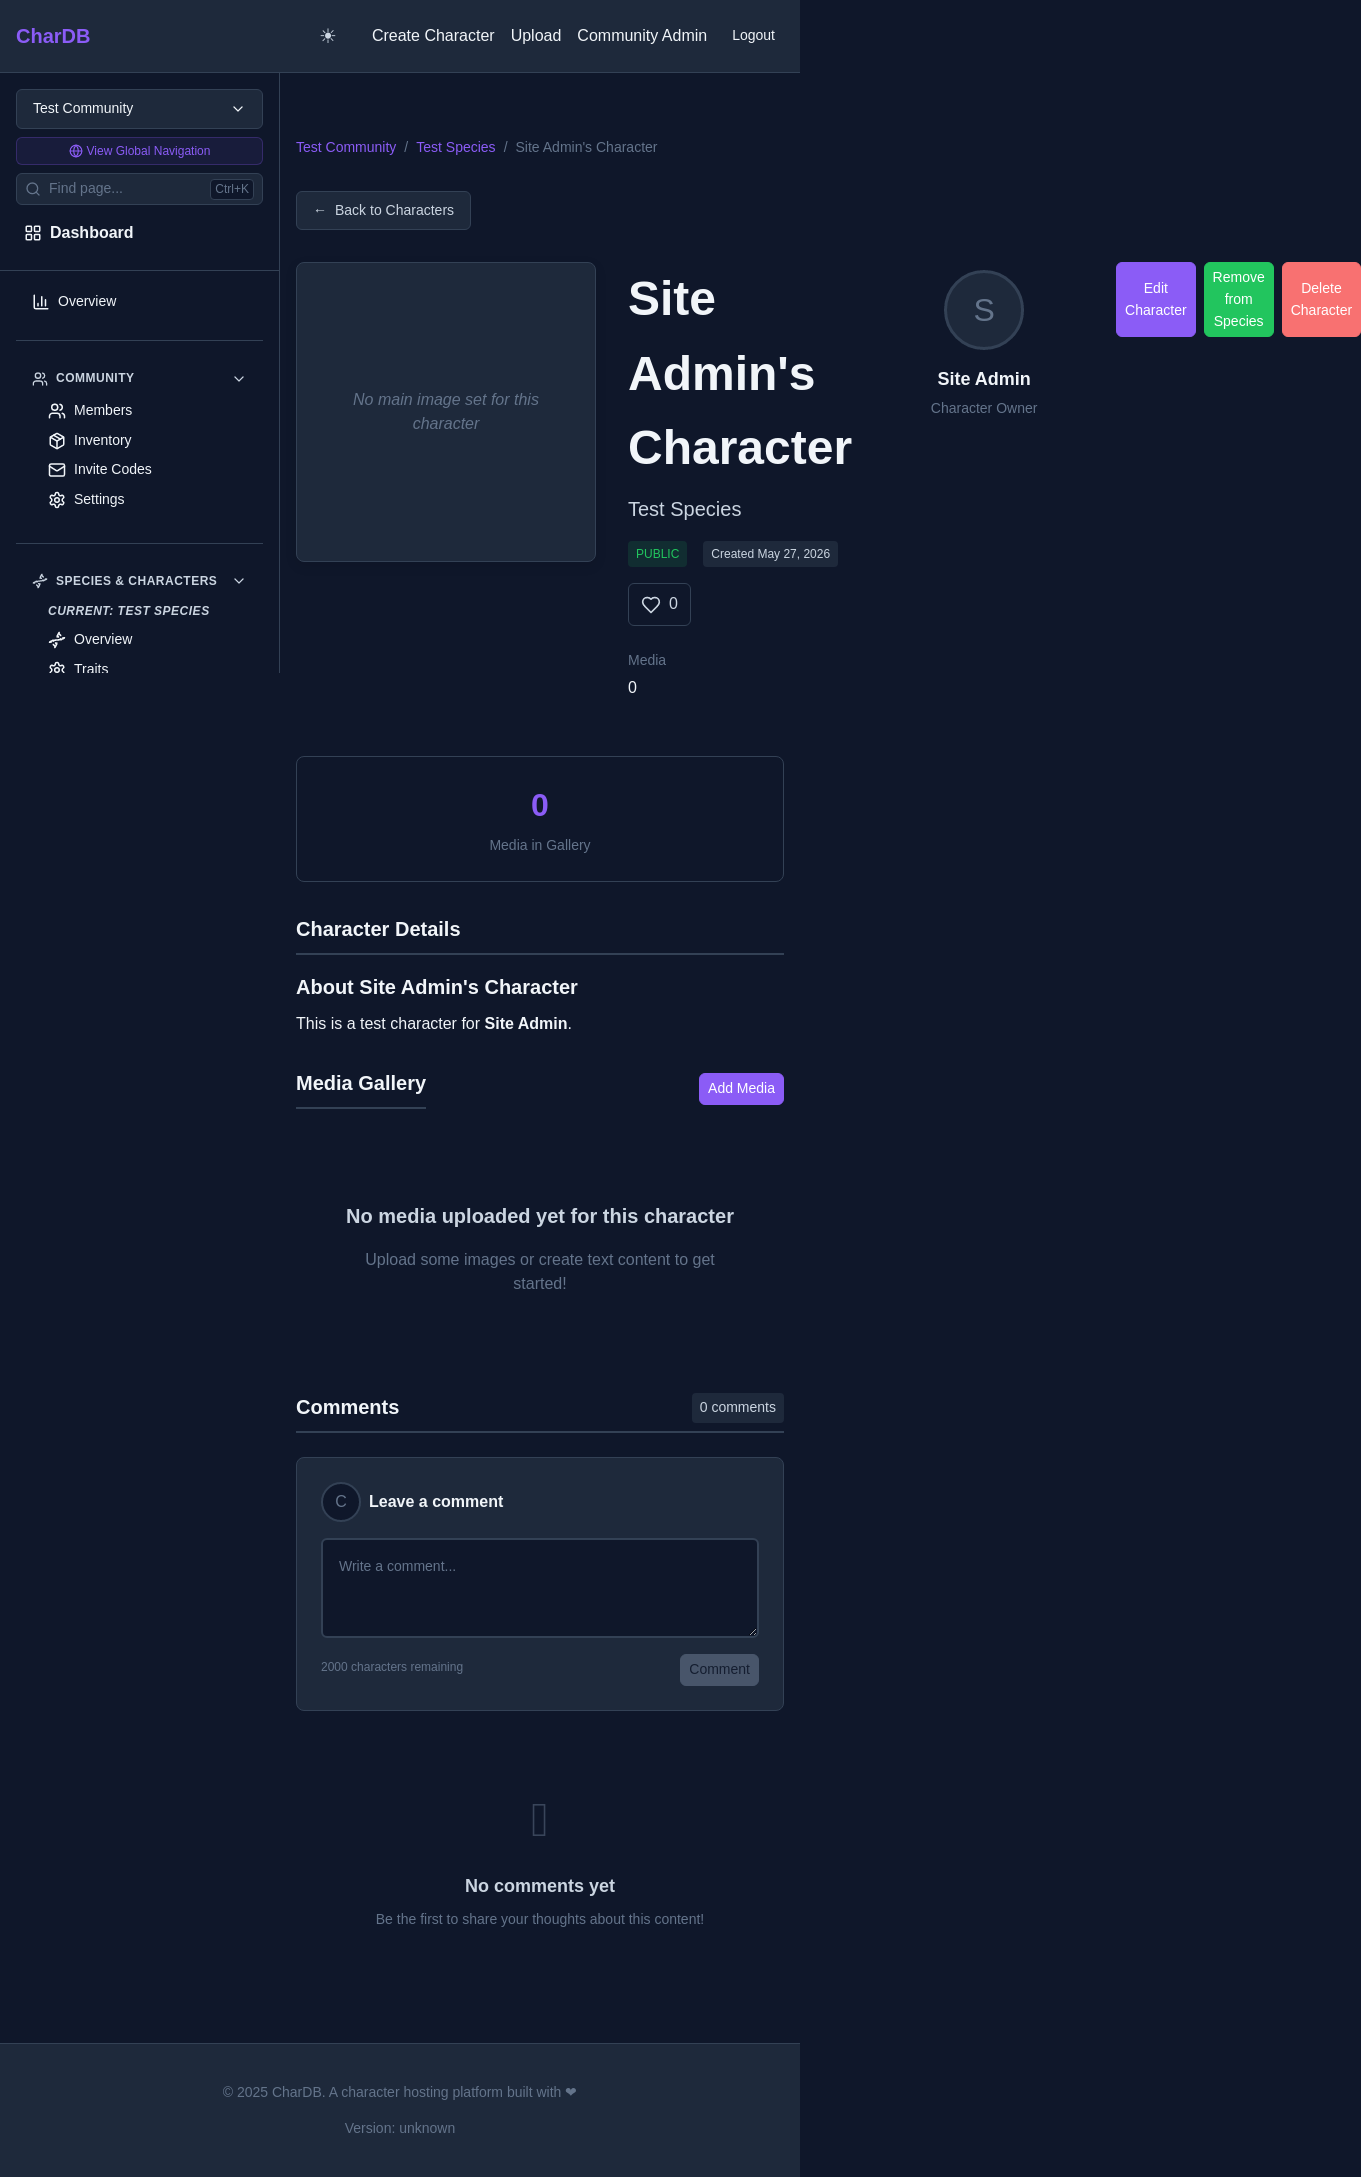
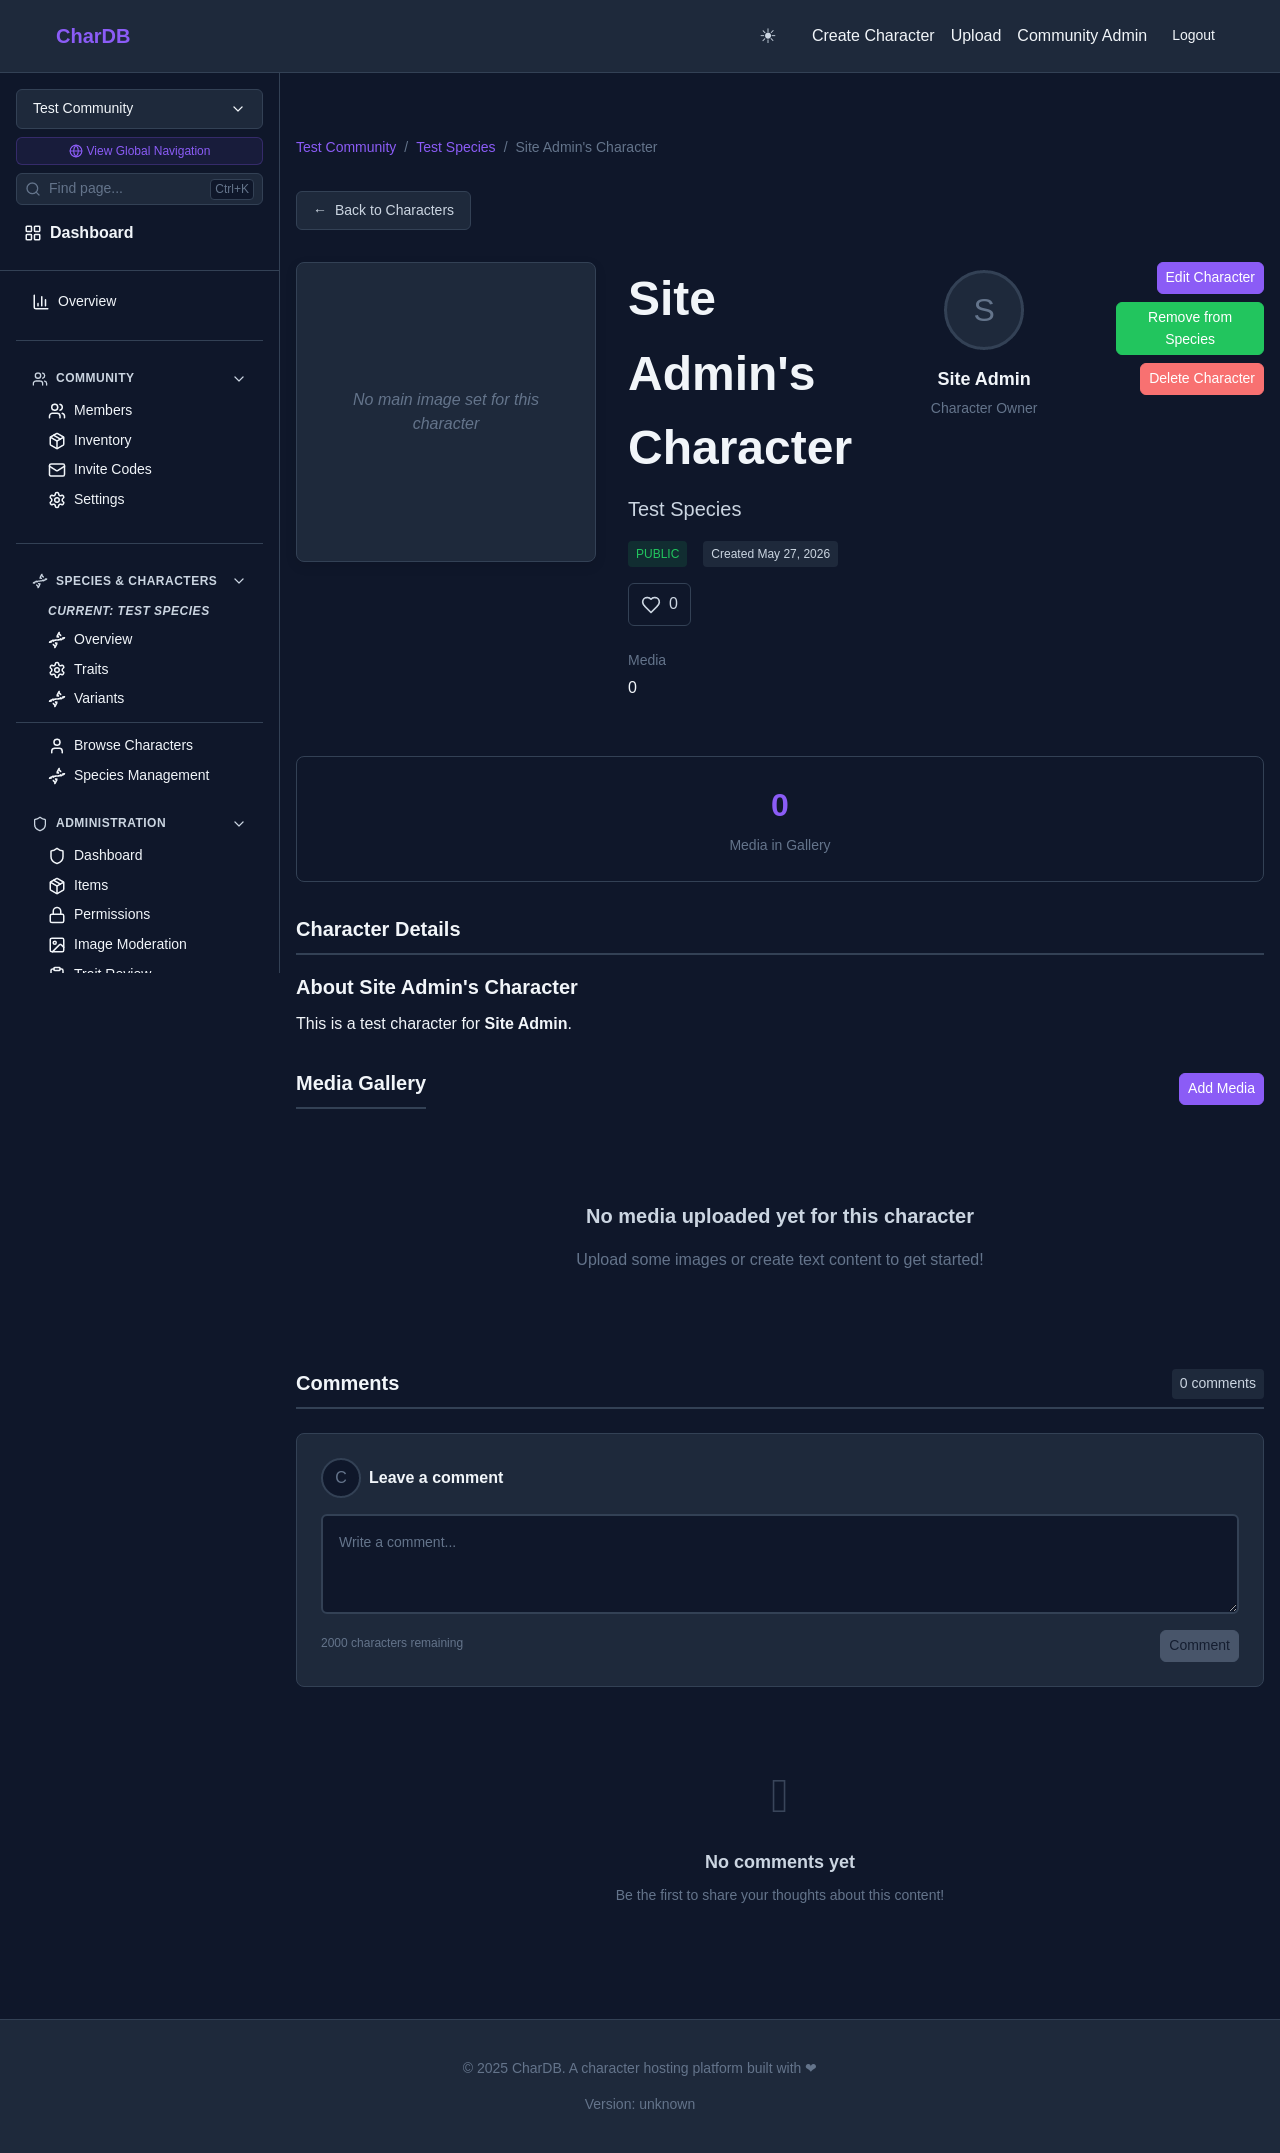
fix(frontend): wrap character action buttons to prevent overflow

diff --git a/apps/frontend/src/pages/CharacterPage.tsx b/apps/frontend/src/pages/CharacterPage.tsx
@@ -92,6 +92,8 @@ const CharacterHeader = styled.div`
 
 const HeaderActions = styled.div`
   display: flex;
+  flex-wrap: wrap;
+  justify-content: flex-end;
   gap: ${({ theme }) => theme.spacing.sm};
   margin-left: auto;
 